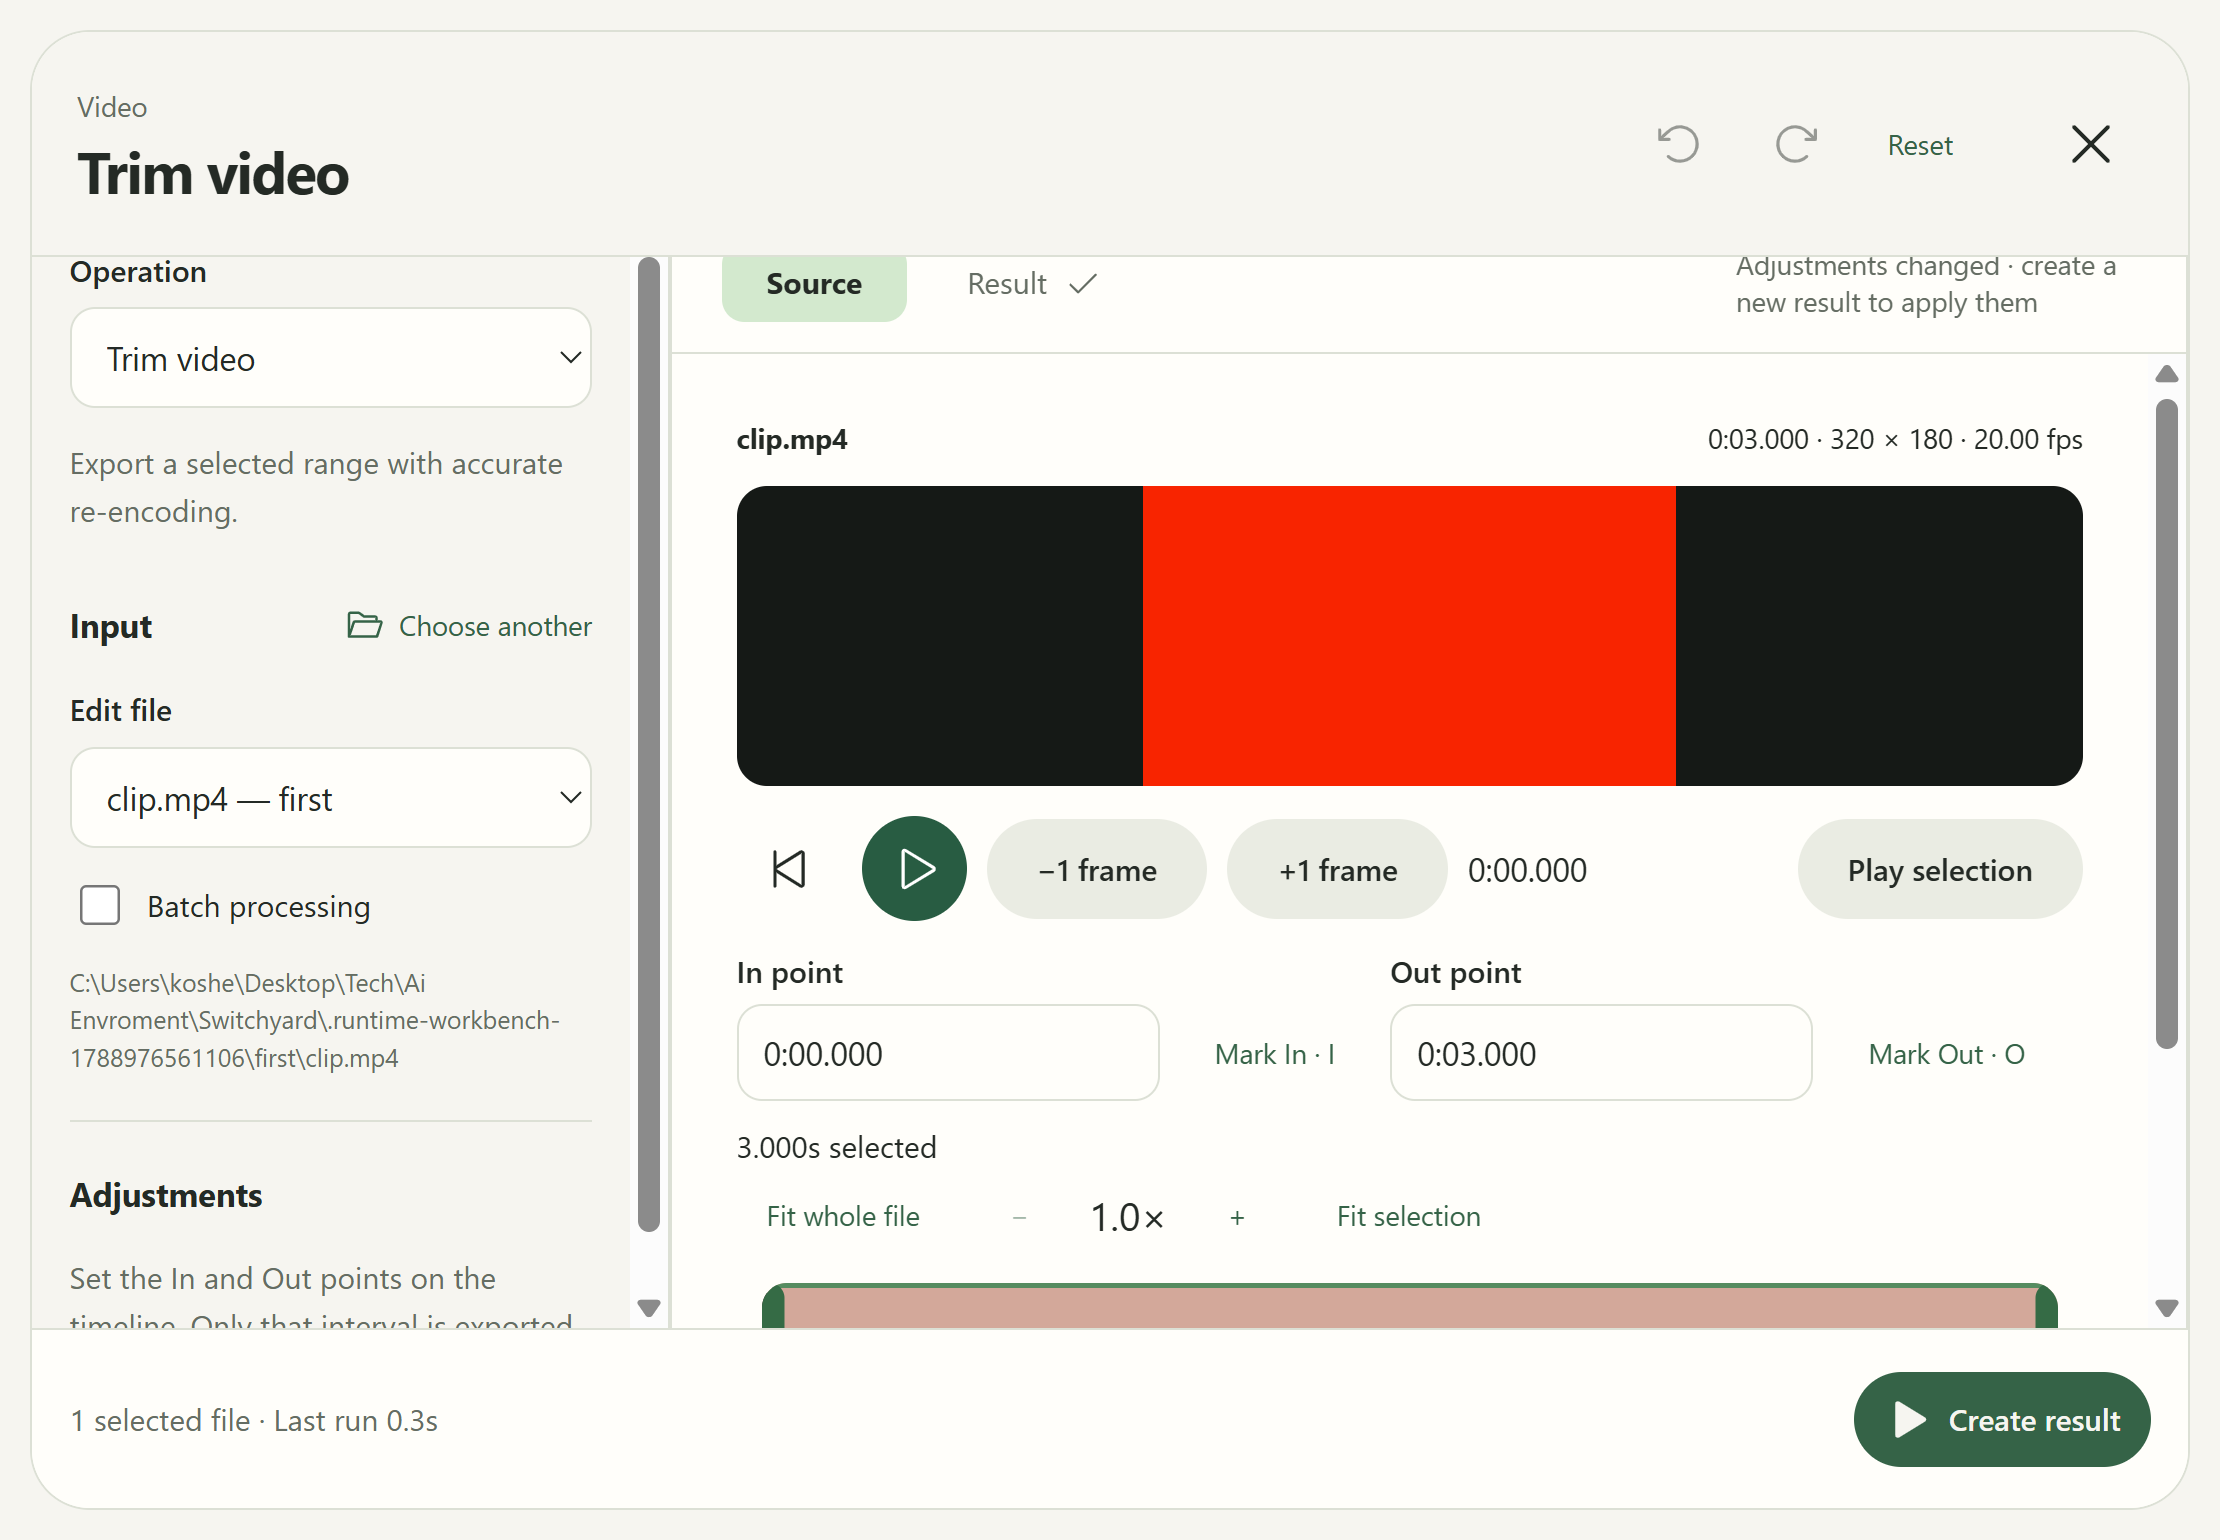
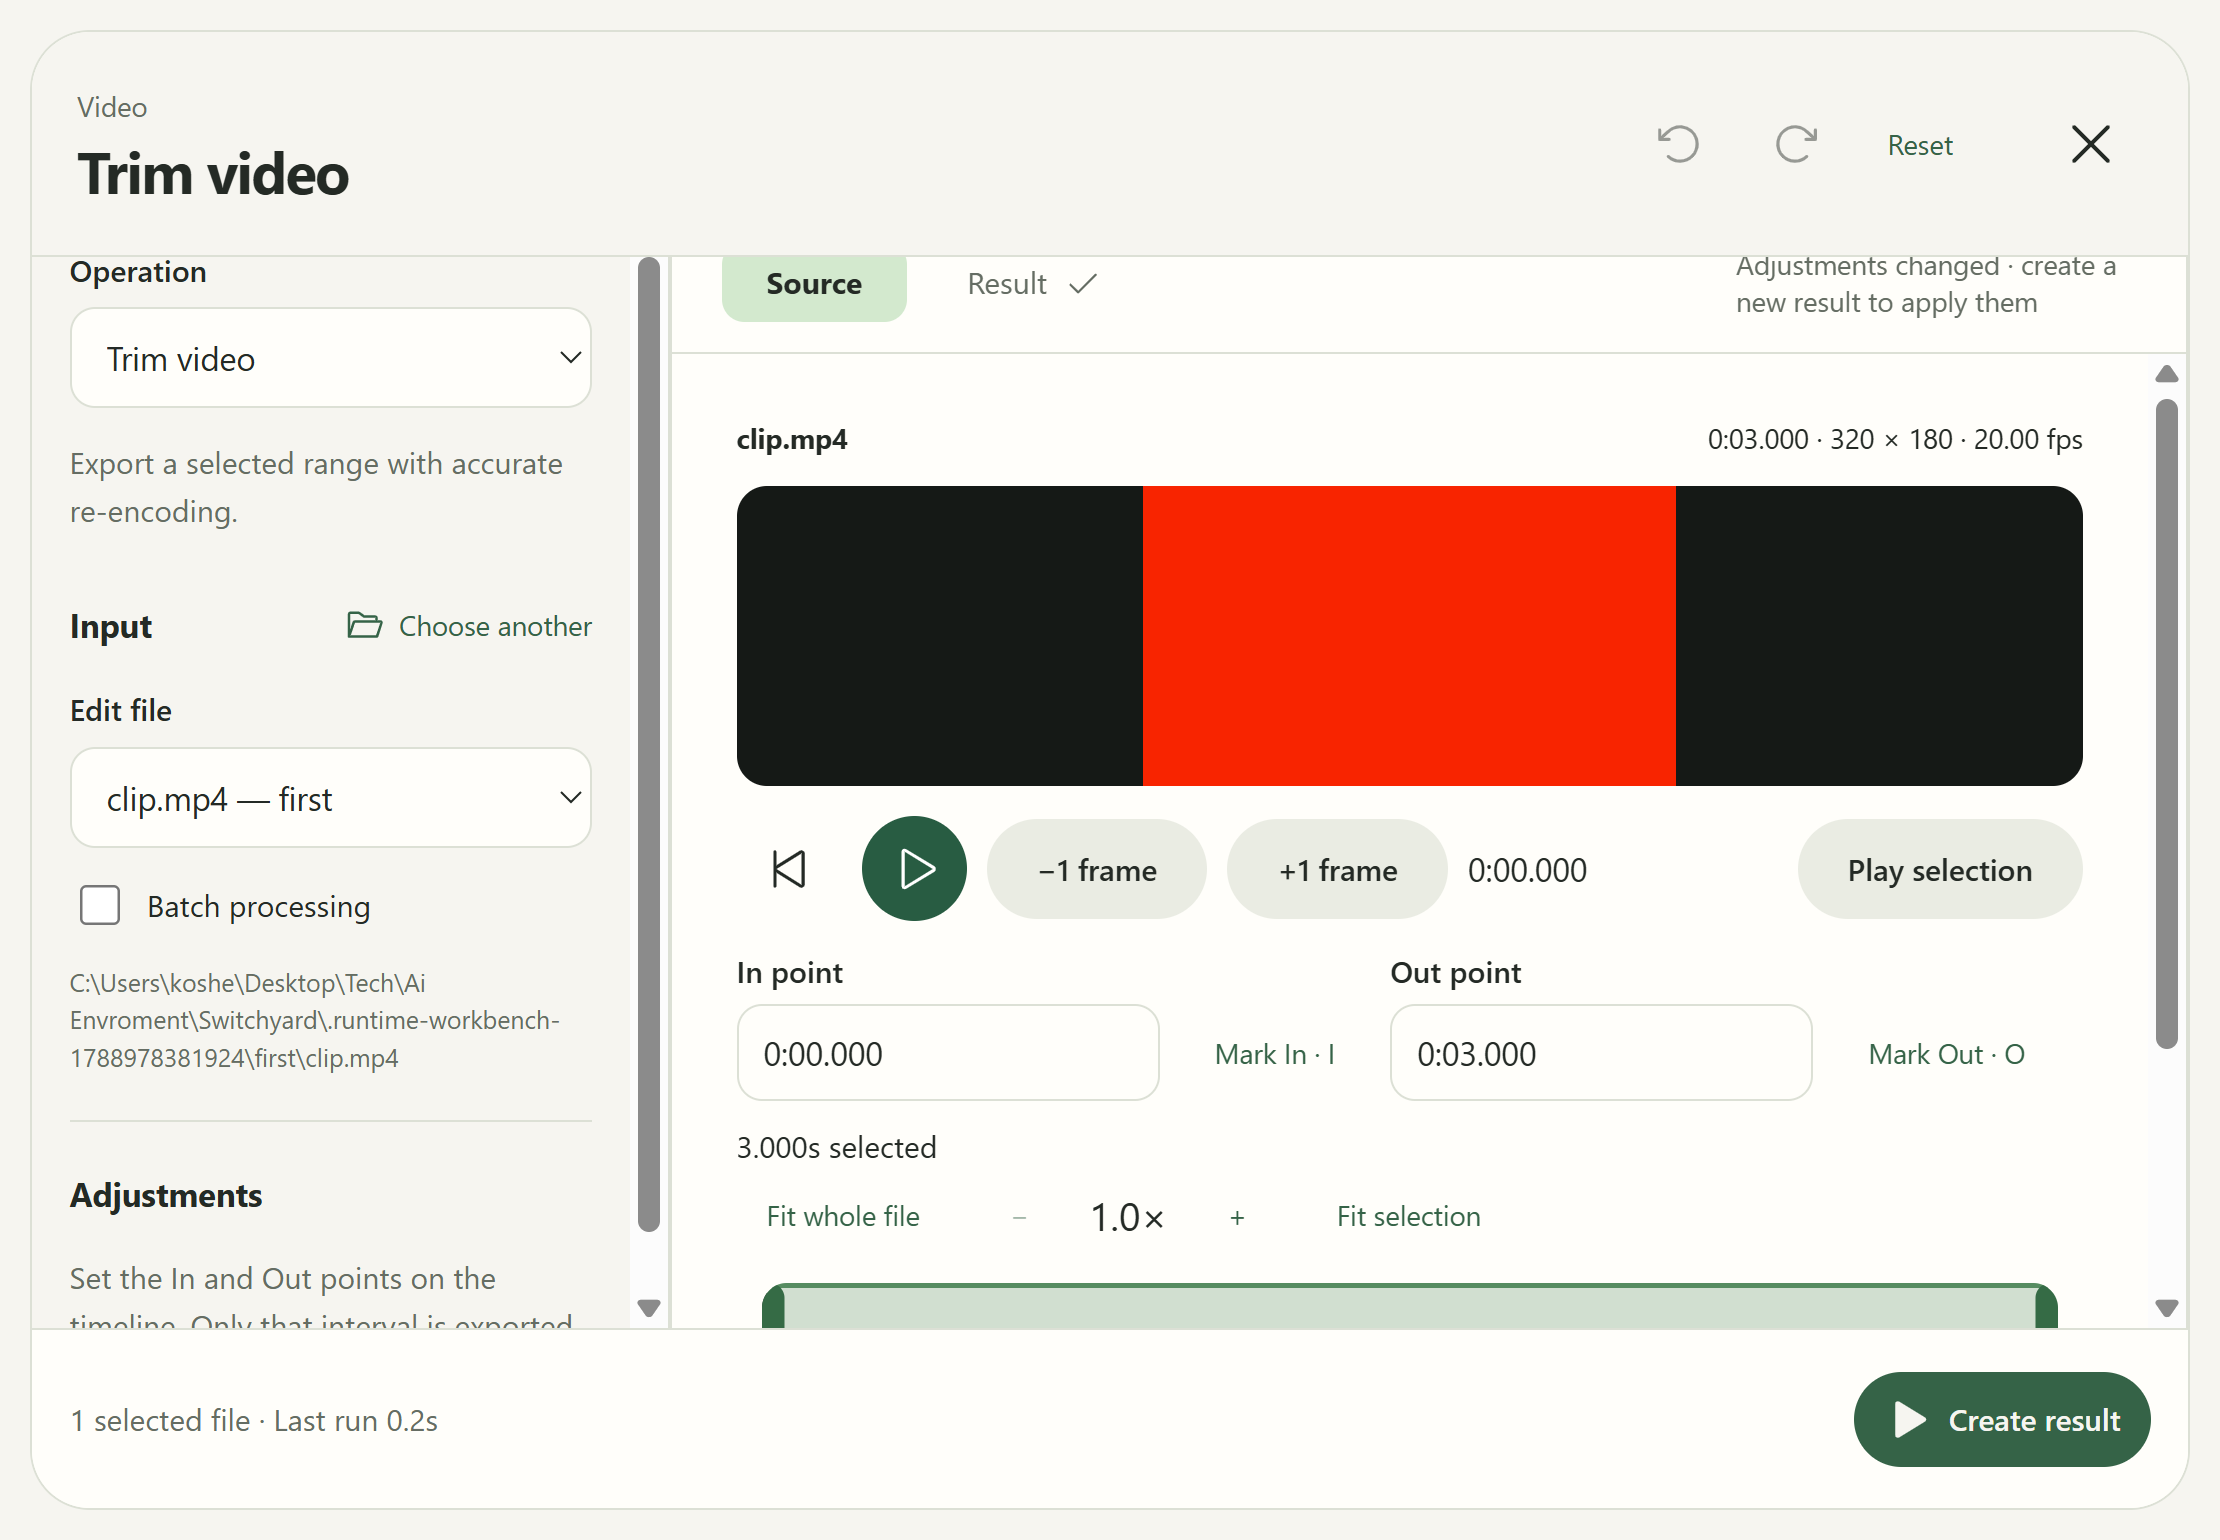
Verify installed 1.1.0 upgrade and editor workflows

Changed region(s): [[0.3419, 0.8104, 0.9324, 0.8727]]

diff --git a/docs/RELEASE-1.1.0.md b/docs/RELEASE-1.1.0.md
@@ -13,3 +13,5 @@ Validation: 106 independent content contracts passed; the complete initial test 
 This release does not claim to replace full GIMP, Audacity, Shotcut or PDFsam. The per-tool review in [TOOL-WORKFLOW-AUDIT.md](TOOL-WORKFLOW-AUDIT.md) records the remaining differences and testing boundaries. In particular, multitrack editing, multiple cut segments, saved processing recipes, direct live effects and page-thumbnail rearranging still need dedicated work.
 
 Final packaged UI checks also passed for YouTube video/audio downloads with actual result playback, Whisper transcription, UVR vocal separation, mixed-format batch conversion, matching batch comparisons and text/file result reuse. Together with the 106-operation UI sweep and the actual Upscayl workflow, every registered operation has a representative UI processing path exercised. This does not cover every possible file, option combination or hardware configuration.
+
+Installed delivery: full NSIS upgrade to 1.1.0 passed, saved-state hash stayed unchanged during installation, and the desktop shortcut and registered version were verified. Nineteen source/build artifacts match the installed application. Video trim selection/export/playback and AI/PDF/text editor workflows passed again using the installed executable. Installer SHA-256: B5871F2F942081EC1BE7674685F34D9AAB8CF58780326541DAD5B079C41E35C3.
